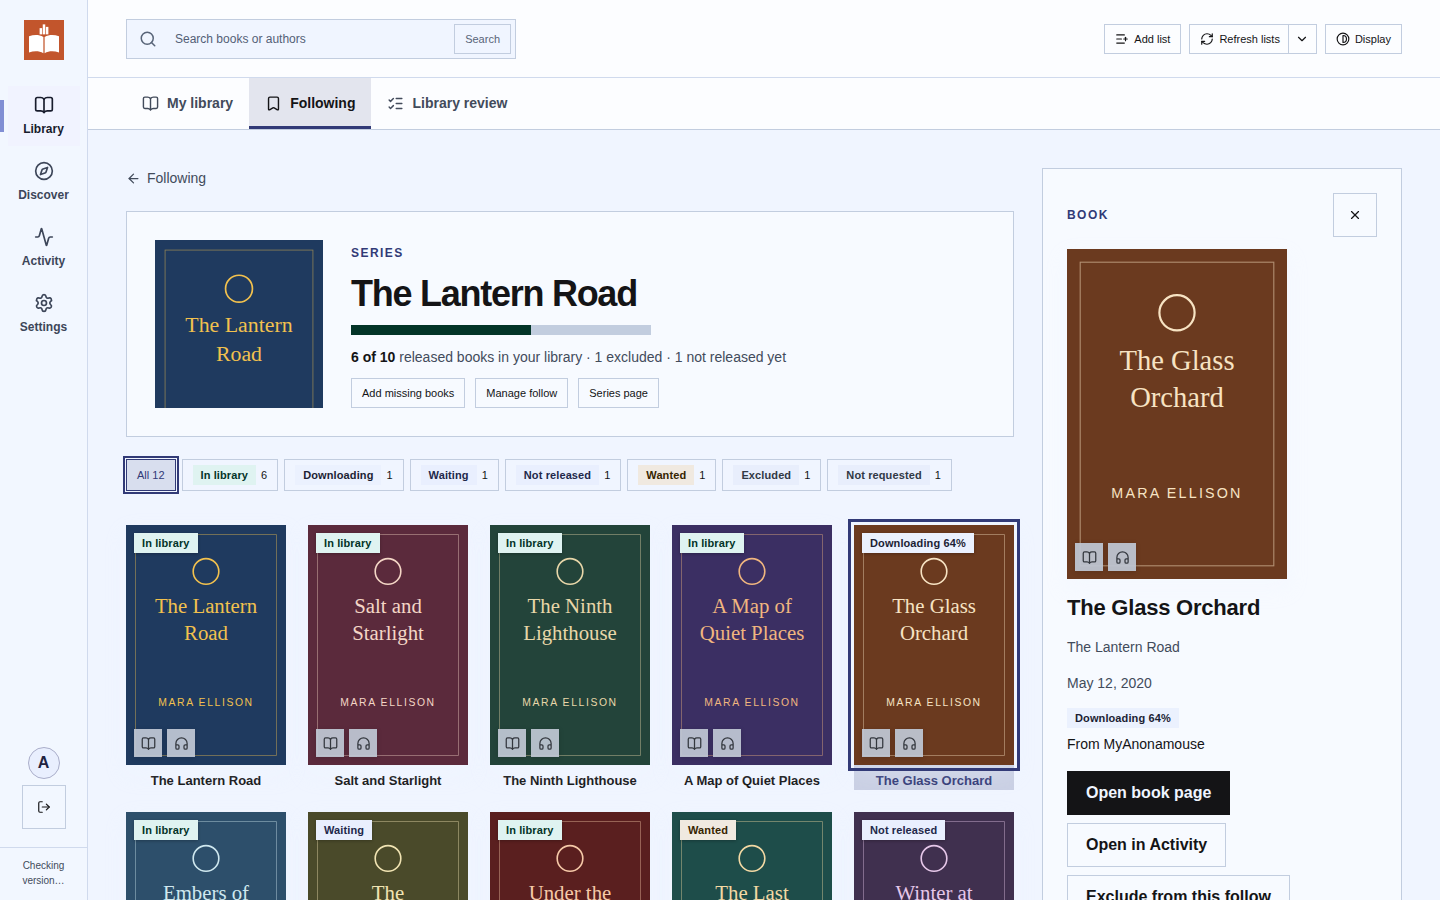
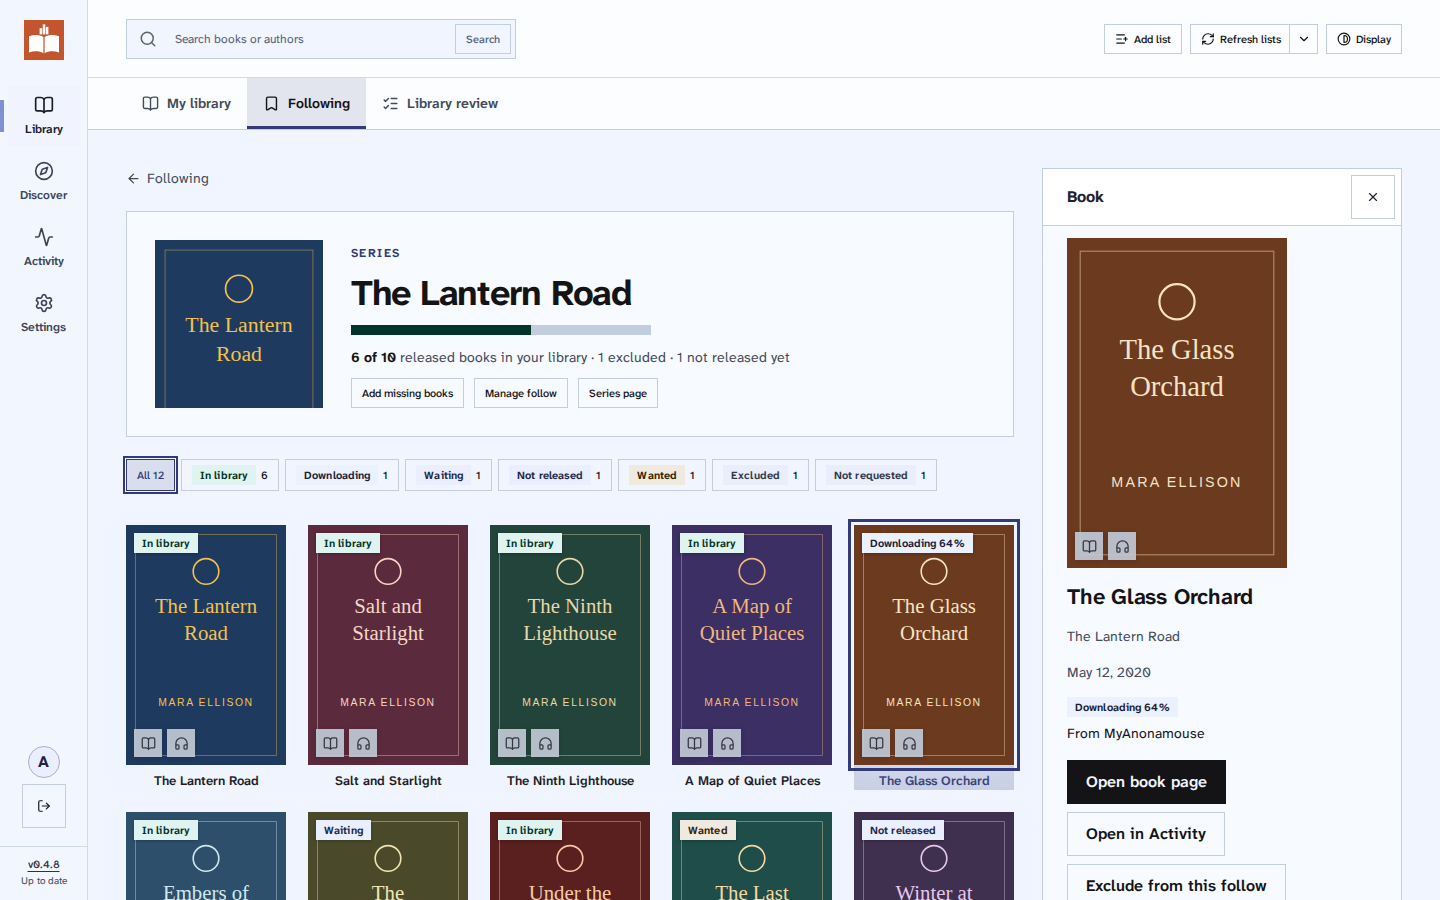
README: new screenshots for v0.4.8 (My library summary, Restore previous version)

diff --git a/apps/web/tests/docs/screenshots.spec.ts b/apps/web/tests/docs/screenshots.spec.ts
@@ -111,10 +111,32 @@ const admin = {
   csrf_token: "docs",
 };
 
+function libraryWork(index: number) {
+  return {
+    id: `00000000-0000-0000-0000-0000000003${String(index).padStart(2, "0")}`,
+    title: titles[index],
+    authors: ["Mara Ellison"],
+    cover_url: `/demo-covers/${index}.svg`,
+    publication_year: 2016 + index,
+    description:
+      index === 6
+        ? "A clockmaker's daughter keeps her father's shop running while she tracks down the missing gears of a clock that predicts storms."
+        : null,
+    availability: {
+      owned: true,
+      ebook: index % 3 === 0,
+      audio: index % 4 !== 3,
+      stale: false,
+      primary_audio_narrators: ["Imogen Hale"],
+    },
+  };
+}
+
 async function setup(
   page: Page,
   theme: "light" | "dark" = "light",
   upgrading = false,
+  newerRelease = false,
 ) {
   await page.addInitScript((value) => {
     localStorage.setItem(
@@ -138,6 +160,42 @@ async function setup(
     if (path === "/api/auth/me") data = admin;
     else if (path === "/api/setup/onboarding") data = { status: "completed" };
     else if (path === "/api/library/libraries") data = [];
+    else if (path === "/api/application/release")
+      data = {
+        installed_version: "v0.4.8",
+        installed_url: null,
+        latest_version: newerRelease ? "v0.4.9" : "v0.4.8",
+        release_url: null,
+        update_available: newerRelease,
+        status: "checked",
+      };
+    else if (path === "/api/library/books" || path === "/api/catalog/works")
+      data = {
+        items: titles.map((_, index) => libraryWork(index)),
+        total: titles.length,
+        offset: 0,
+        limit: 40,
+      };
+    else if (path.startsWith("/api/metadata/works/"))
+      data = {
+        sources: [
+          {
+            provider: "hardcover",
+            external_id: "docs-map",
+            series: [
+              { external_id: "77", name: "The Lantern Road", position: 7 },
+            ],
+          },
+        ],
+      };
+    else if (path.endsWith("/reader-details"))
+      data = {
+        authors: [{ external_id: "501", name: "Mara Ellison" }],
+        rating: 4.3,
+        ratings_count: 1287,
+        release_date: "2019-04-12",
+        audio_seconds: 41340,
+      };
     else if (path === "/api/acquisition/preferences/personal")
       data = { effective: { desired_media: "audio" } };
     else if (path === `/api/following/${list}/summary`)
@@ -236,6 +294,12 @@ async function setup(
         ],
         automatic: false,
         automatic_from_environment: false,
+        way_back: {
+          title: "Storyarr",
+          database_changes: ["Two new indexes on the operations table."],
+          rollback:
+            "Downgrade the database to 0082_installation_automation to remove the indexes.",
+        },
       };
     return route.fulfill({ json: data });
   });
@@ -311,4 +375,29 @@ test("settings", async ({ page }) => {
   await expect(page.getByRole("heading", { name: "Settings" })).toBeVisible();
   await page.waitForTimeout(600);
   await page.screenshot({ path: `${OUT}/settings.png` });
+});
+
+test("my library, with a summary and a newer release", async ({ page }) => {
+  await setup(page, "light", false, true);
+  await page.goto("/library");
+  const books = page.locator(".shelf-book");
+  await expect(books.first().locator("img")).toBeVisible();
+  await books.nth(6).click();
+  await expect(page.locator(".book-summary")).toBeVisible();
+  await expect(
+    page.locator(".book-summary").getByRole("link", { name: "Mara Ellison" }),
+  ).toBeVisible();
+  await page.waitForTimeout(500);
+  await page.screenshot({ path: `${OUT}/my-library.png` });
+});
+
+test("restore previous version", async ({ page }) => {
+  await setup(page);
+  await page.goto("/settings#upgrades");
+  await page.getByText("Restore previous version", { exact: true }).click();
+  await expect(
+    page.getByRole("heading", { name: "2. Undo database changes" }),
+  ).toBeVisible();
+  await page.waitForTimeout(400);
+  await page.screenshot({ path: `${OUT}/restore-previous-version.png` });
 });

diff --git a/README.md b/README.md
@@ -73,6 +73,9 @@ More: [Docker settings and backups](docs/DOCKER.md) · [Metadata sources](docs/M
 
 The books and covers below are invented for the screenshots.
 
+### My library, with a book's summary
+![My library as a cover wall, with a summary panel for one book and a red dot on the version number for an available upgrade](docs/images/my-library.png)
+
 ### Bookshelf, in the dark theme
 ![The same bookshelf in the dark theme](docs/images/bookshelf-dark.png)
 
@@ -80,13 +83,16 @@ The books and covers below are invented for the screenshots.
 ![A month of audiobook release days with small covers, and the Genres and Show menus](docs/images/calendar.png)
 
 ### Display and accessibility
-![Display and accessibility settings: theme, text size, low-vision font, high contrast and more](docs/images/display.png)
+![Display and accessibility settings: theme, text size, high contrast, reduced motion and more](docs/images/display.png)
 
 ### Settings
-![Settings in six groups, with the Layout choice of Classic or Shelf](docs/images/settings.png)
+![Settings in six groups: General, Accounts, Sources, Library, Downloads and System](docs/images/settings.png)
 
 ### Upgrade wizard
-![The upgrade wizard: what is new, database changes and the way back](docs/images/upgrade-wizard.png)
+![The upgrade wizard, shown only when a new version has settings to choose or database changes](docs/images/upgrade-wizard.png)
+
+### Restore previous version
+![Settings, Restore previous version: restore your settings, undo database changes, start the previous version](docs/images/restore-previous-version.png)
 
 ## Updates
 
@@ -96,7 +102,7 @@ docker compose up -d
 ```
 
 Back up `config` and PostgreSQL first. Storyarr saves a settings backup and runs database migrations on its own,
-then shows admins what changed. [Updating](docs/UPDATING.md) has the details.
+and shows admins the upgrade wizard only when there are settings to choose or database changes. [Updating](docs/UPDATING.md) has the details.
 
 ## Contributors
 
